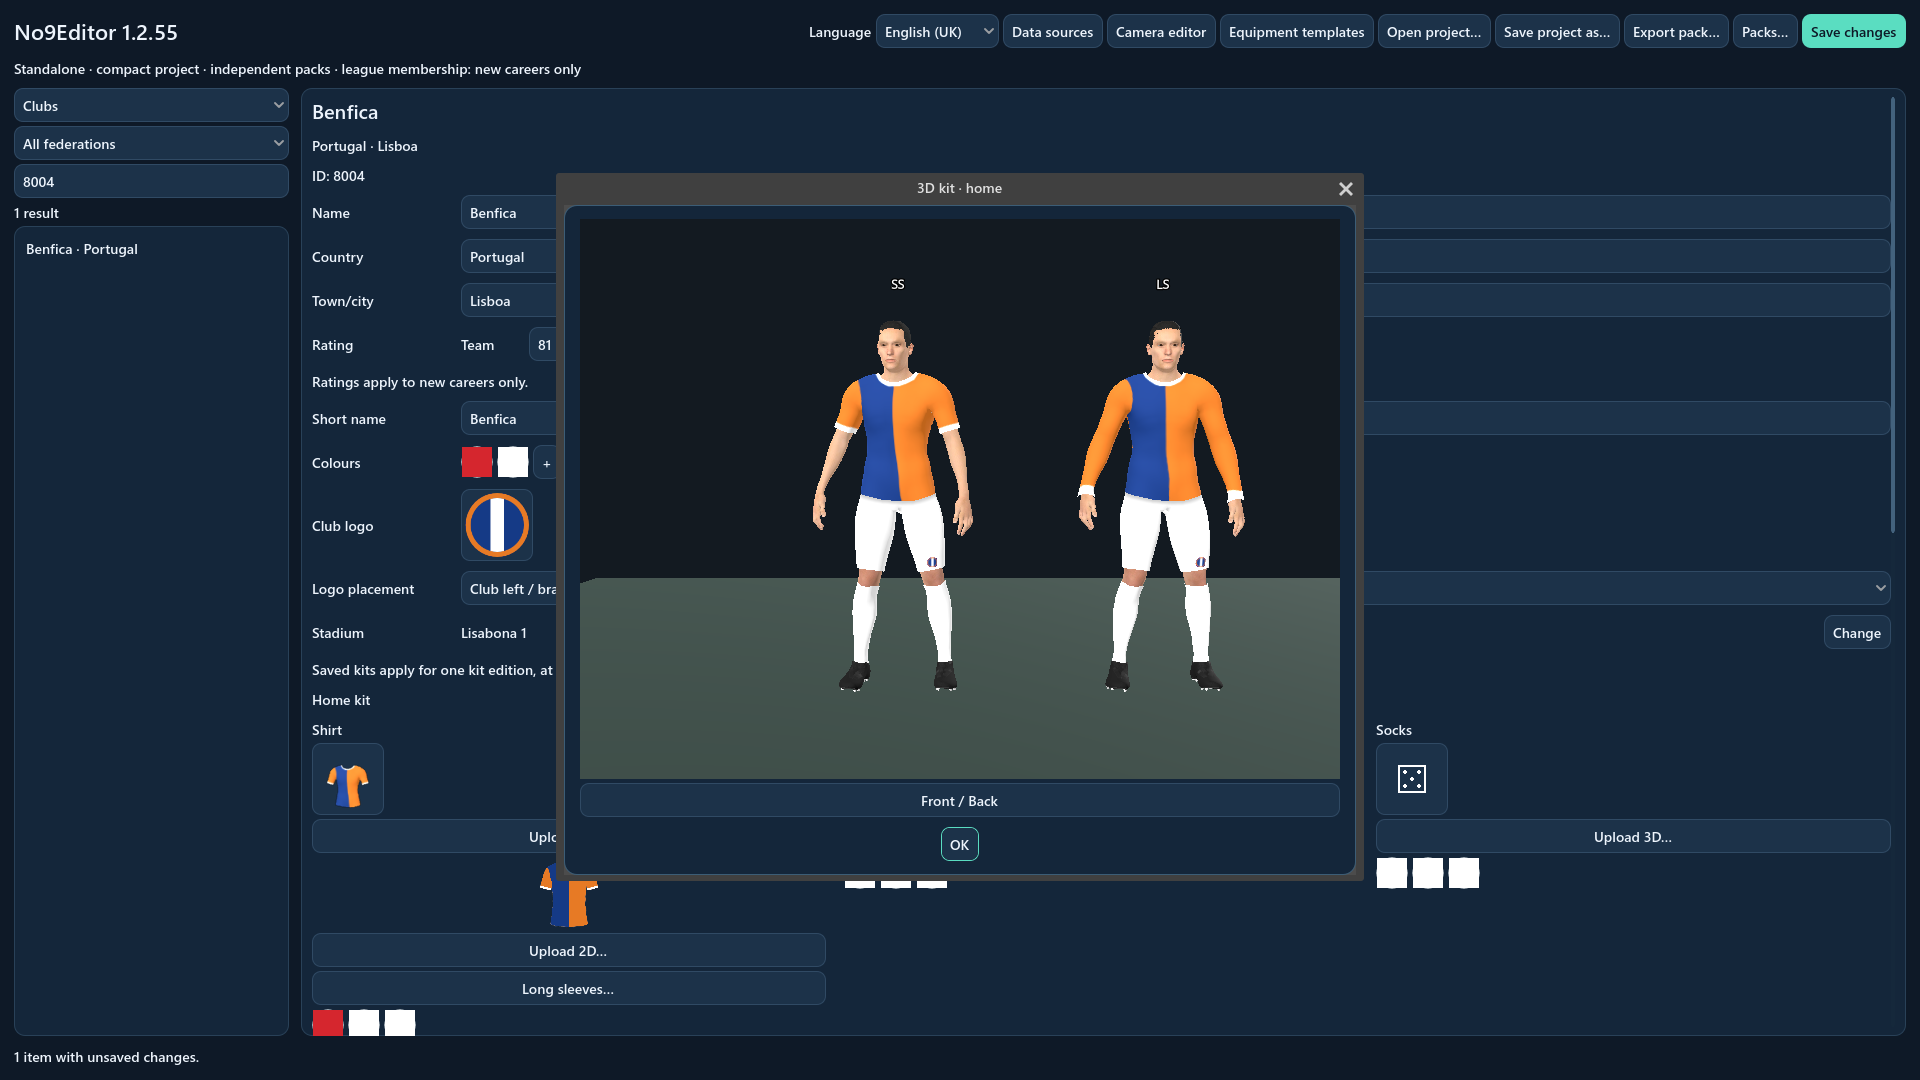
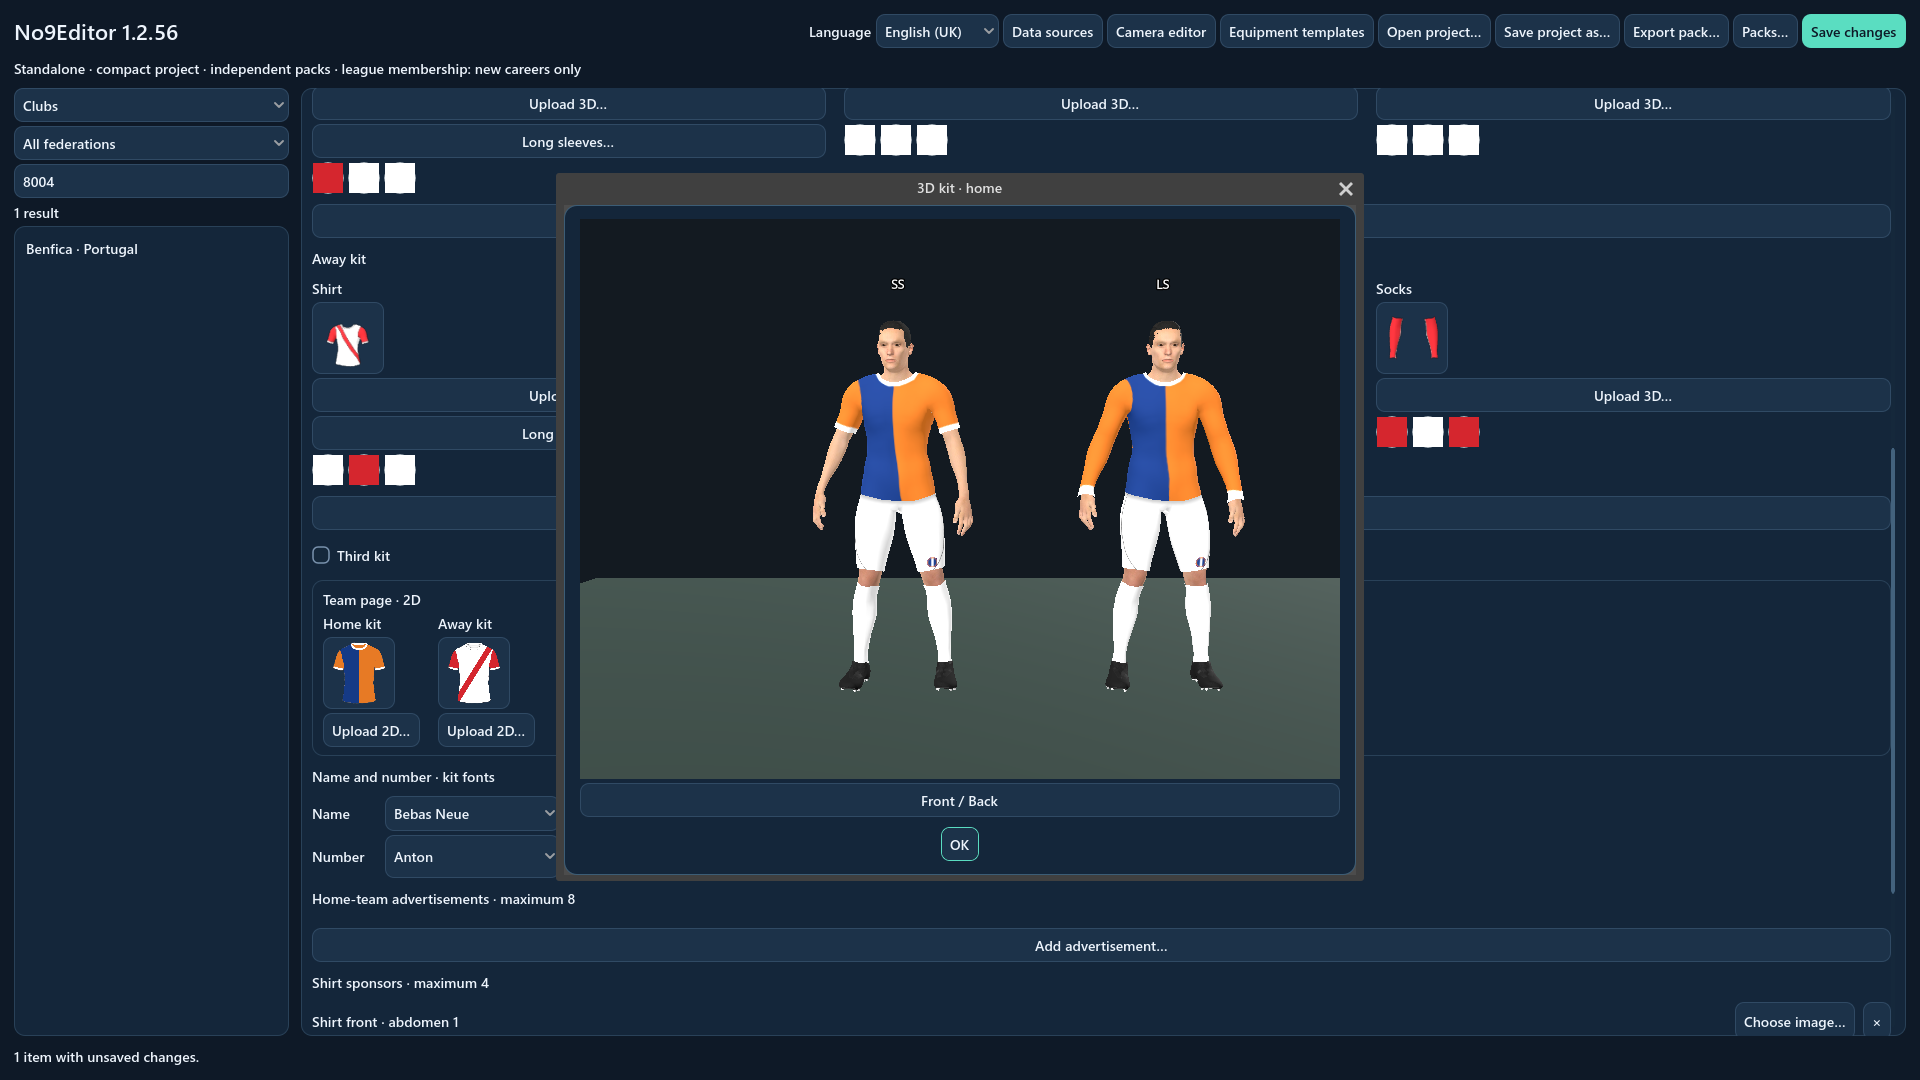
Present standalone editor 1.2.56 Assets layout and kit panels

diff --git a/docs/EDITOR.md b/docs/EDITOR.md
@@ -8,7 +8,7 @@
 
 **Clubs · Federations · Kits · Stadiums · Shared data packs**
 
-[Download 1.2.55 for Windows 64-bit](https://github.com/florinhangu/Footballer/releases/download/no9editor-v1.2.55/No9Editor.exe) · [Download details](RELEASES.md) · [No9: Day One](../README.md)
+[Download 1.2.56 for Windows 64-bit](https://github.com/florinhangu/Footballer/releases/download/no9editor-v1.2.56/No9Editor.exe) · [Download details](RELEASES.md) · [No9: Day One](../README.md)
 
 <img src="../media/editor/club-editor.png" width="92%" alt="The Marseille club form with its white, blue and gold palette in No9Editor">
 
@@ -58,7 +58,7 @@ limited. Public authors can edit names without publisher licensing controls.
   <img src="../media/editor/crest-gallery.png" width="44%" alt="The original crest gallery shown in the selected club's colours">
   <img src="../media/editor/federation-editor.png" width="44%" alt="A national football federation with its country-flag colours in the standalone editor">
   <br>
-  <img src="../media/editor/competition-editor.png" width="44%" alt="African Football Union Champions Trophy and international competition regulations">
+  <img src="../media/editor/competition-editor.png" width="44%" alt="Global Football Association World Trophy with its SVG emblem and logo upload">
   <img src="../media/editor/league-editor.png" width="44%" alt="Numbered league tiers in the standalone league editor">
 </div>
 
@@ -90,53 +90,70 @@ crest and manufacturer on opposite sides of the chest or stack them centrally.
   <img src="../media/editor/kit-preview.png" width="92%" alt="Short- and long-sleeved 3D kit previews in Grenoble's blue and white">
 </div>
 
-## Explore equipment templates
+## Design galleries and previews
 
-Open **Equipment templates** to browse separate 3D galleries for shirts, shorts,
-socks, balls and boots. Playable designs appear as unnamed thumbnails; UV
-reference sheets are excluded. Drag the preview to rotate the equipment on all
-three axes while the camera stays fixed.
+Every selected 3D shirt, pair of shorts and pair of socks appears inside its
+**72 × 72 selection button**. Upload 3D stays beside the garment controls.
+Default kits use varied models selected from the game's catalogue.
 
-Each shirt also shows its matching **Team page · 2D** image in the same colours.
-The Team image follows the selected 3D design automatically. Shirt, shorts and
-sock choices remain independent of one another and use the game's normal kit
-edition rules.
+A separate **Team page · 2D** panel sits below the home, away and optional third
+3D kits. Its short-sleeved shirts appear side by side in **72 × 72** tiles, each
+with an Upload 2D button. The 2D design follows the selected 3D shirt automatically;
+short- and long-sleeved 3D shirts share one 2D shirt identity.
 
-The boot catalogue lets you inspect both boots with traditional cosmetic
-palettes, including white/light grey/dark grey and red/charcoal/charcoal.
-Browsing is visual only and does not assign boots to a team or player.
+**Equipment templates** shows artwork created by the user and designs included
+in imported packs. The standard boot catalogue also remains available. Club and
+competition forms can still choose their appropriate built-in game designs.
+UV references and PSD authoring files are excluded from playable galleries.
 
+Rotate the ball on all three axes. Shirts, shorts, socks and boots turn left or
+right through 360 degrees, with the camera fixed. Boot previews use the same mesh,
+skin and idle pose as the match, with increased rendering resolution and a fitted
+view that keeps both boots in frame.
+
+<div align="center">
+  <img src="../media/editor/boot-catalogue.png" width="96%" alt="The standalone boot catalogue with the original match mesh, a fitted preview and horizontal rotation">
+</div>
 
 ## Bring your own artwork
 
-The application creates a **Templates** folder beside its executable. It includes
-UV guides for short- and long-sleeved shirts, shorts, socks, boots and the NOVE
-ball, plus **60 flat shirt templates**. The shirt overlay is supplied separately.
-Use these references in your image editor; no Godot installation is needed.
+The application uses **Assets** beside its executable, with no separate Custom
+folder. It includes six UV guides, a short-sleeved 2D shirt PSD and a separate
+overlay. No Godot installation is needed.
 
-Upload a finished **3D PNG** for a club or federation and, optionally, a matching
-**2D PNG** for the Team page. Short and long sleeves have separate uploads and
-UV guides. A missing sleeve variant uses plain primary-colour fabric. Without
-separate 2D artwork, the Team page renders the selected custom 3D shirt.
+| Artwork | Folder inside Assets |
+| --- | --- |
+| Team-page shirt | Kits/2D_Kits/Shirt |
+| Short-sleeved shirt | Kits/3D_Kits/SS_Shirt |
+| Long-sleeved shirt | Kits/3D_Kits/LS_Shirt |
+| Shorts | Kits/3D_Kits/Shorts |
+| Socks | Kits/3D_Kits/Socks |
+| NOVE ball | Ball/3D |
+| Boots | Boots/3D |
 
-Custom PNGs keep their original colours and any logos, sponsors or manufacturer
-marks already drawn into them. Automatic shirt branding is suppressed; player
-names and numbers still follow your printing choices. The authored kit lasts
-for **one normal kit edition**, beginning with a new career or the next scheduled
-kit replacement. Subsequent editions return to the game's randomisation.
+Team uploads are saved by numeric identity: **8004_home.png**, **8004_away.png**
+and **8004_third.png**, in the corresponding category folder. League and competition
+ball uploads use their numeric ID. Renaming a team does not rename its artwork.
 
-Upload permanent custom logos for clubs, federations, leagues and competitions.
-These remain until explicitly removed and are independent of seasonal kits.
-PNG, JPEG, WebP and SVG logos are supported.
+Custom PNGs keep their colours and any logos, sponsors or manufacturer marks
+already drawn into them. Automatic shirt branding is suppressed; player names
+and numbers still follow the printing choices. Authored kits last for one normal
+kit edition, starting with a new career or the next scheduled replacement.
 
-Save a **.no9project** or export a **.no9pack** to embed your custom artwork.
-Include unassigned custom templates when sharing a template collection. Recipients
-need only your project or pack, rather than your original image files.
+Clubs, federations, leagues and competitions each have a visible **Upload logo…**
+button. League and competition forms display their existing SVG emblem by default.
+Custom PNG, JPEG, WebP or SVG logos remain until explicitly removed.
+
+Save a **.no9project** or export a **.no9pack** to embed your artwork. Include
+unassigned custom templates when sharing a collection. Recipients need only the
+project or pack, rather than the author's original image files.
 
 <div align="center">
-  <img src="../media/editor/custom-kit-upload.png" width="96%" alt="Custom shirt uploads, matching Team-page artwork and a permanent custom club crest in No9Editor">
+  <img src="../media/editor/custom-kit-upload.png" width="96%" alt="72-pixel shirt, shorts and sock selection buttons with separate 3D upload controls">
   <br>
-  <img src="../media/editor/custom-kit-preview.png" width="96%" alt="Separate short- and long-sleeved custom shirts, each using its own UV artwork in the standalone editor">
+  <img src="../media/editor/team-2d-panel.png" width="96%" alt="A separate panel containing the home and away short-sleeved 2D shirts and upload buttons">
+  <br>
+  <img src="../media/editor/custom-kit-preview.png" width="96%" alt="Short- and long-sleeved 3D shirts sharing the same kit identity">
 </div>
 
 ## Choose the match ball
@@ -201,12 +218,12 @@ ratings apply to new careers only. An authored kit is used for one normal kit
 edition, following the team's usual annual or two-season cycle, before the
 game's normal kit generation resumes.
 
-Custom artwork screenshots show **No9Editor 1.2.55**. Other screenshots illustrate the existing editor tools.
+Custom artwork screenshots show **No9Editor 1.2.56**. Other screenshots illustrate the existing editor tools.
 
 ## Download No9Editor
 
 **Windows 64-bit · Single executable · Approximately 570 MiB**
 
-[Download No9Editor.exe](https://github.com/florinhangu/Footballer/releases/download/no9editor-v1.2.55/No9Editor.exe)
+[Download No9Editor.exe](https://github.com/florinhangu/Footballer/releases/download/no9editor-v1.2.56/No9Editor.exe)
 and open it to start a project. The application includes its runtime, database
 and assets. See [download details](RELEASES.md) for the current version and checksum.

diff --git a/docs/releases/1.2.56.md b/docs/releases/1.2.56.md
@@ -1,0 +1,37 @@
+# No9Editor 1.2.56
+
+Published: 2026-11-08 (Europe/Bucharest). Windows x86-64 standalone editor.
+
+## Added
+
+- An Assets layout matching the reorganised authoring folders: 2D shirts, separate SS/LS shirts, shorts, socks, NOVE balls and boots.
+- A shared 2D kit panel below the home, away and optional third 3D kits, with one 72 × 72 short-sleeved shirt and an Upload 2D button for each strip.
+- Visible Upload logo buttons for clubs, federations, leagues and competitions. The existing league and competition SVG emblems are displayed by default.
+- Numeric team filenames for uploaded kit artwork, such as 8004_home.png and 8004_away.png, in the corresponding category folder. Competition balls use the competition ID.
+
+## Changed
+
+- Every 3D garment displays its selected design inside its 72 × 72 selection button. The 3D upload controls remain separate.
+- Short- and long-sleeved 3D shirts share a single short-sleeved 2D kit identity, chosen automatically from the 3D selection.
+- Default club and federation kits use varied game models rather than a shared model-one placeholder.
+- The Equipment templates library shows user-created and imported artwork; the standard boots remain available there. Team and competition forms retain their built-in design selectors.
+- Balls retain rotation on all three axes. Other equipment rotates horizontally through 360 degrees.
+- Boot previews use the match mesh, skin and idle pose. Their camera is fitted to both posed boots, with increased rendering resolution and an unchanged aspect ratio.
+- Existing project artwork is exposed in the new folders without overwriting files edited manually in Assets. Immutable references and portable pack compatibility are retained.
+
+## Removed
+
+- The separate Custom directory from the authoring layout.
+- The separate 2D preview beneath each shirt's 3D upload control.
+- Standard shirts, shorts, socks and balls from the user template library; they remain available in the appropriate team and competition selectors.
+- Unrestricted pitch/roll rotation for clothing and boots in the equipment library.
+
+## Verification
+
+1,159 focused checks passed with no functional failures. The standalone executable passed 113 checks at 1920 × 1080 with audio disabled. The checks cover the actual upload controls, numeric filenames, two/three-kit panels, 72-pixel selectors, default SVG emblems, portable artwork, the boot thumbnail and horizontal rotation. Source regressions also cover all 120 supplied SS/LS texture variants, seasonal kit rules and preservation of existing authoring files.
+
+## Download
+
+Open No9Editor.exe directly. Godot and the game are not required. The executable creates Assets and extracts missing references without replacing existing files. Assets.zip is also available separately; extract its contents into the Assets folder beside No9Editor.exe.
+
+This release contains only the standalone editor. No game build or game project is distributed.

diff --git a/docs/RELEASES.md b/docs/RELEASES.md
@@ -4,11 +4,11 @@
 
 **Standalone football database, kit and stadium editor for Windows 64-bit.**
 
-Current version: **1.2.55**.
+Current version: **1.2.56**.
 
 [Release history, newest first](releases/README.md) — additions, changes and removals for every published version.
 
-[Download No9Editor.exe](https://github.com/florinhangu/Footballer/releases/download/no9editor-v1.2.55/No9Editor.exe) · [View the editor](EDITOR.md) · [Open the download page](https://github.com/florinhangu/Footballer/releases/tag/no9editor-v1.2.55)
+[Download No9Editor.exe](https://github.com/florinhangu/Footballer/releases/download/no9editor-v1.2.56/No9Editor.exe) · [View the editor](EDITOR.md) · [Open the download page](https://github.com/florinhangu/Footballer/releases/tag/no9editor-v1.2.56)
 
 Download the single executable and open it. It includes the runtime, database
 and assets; installing Godot is unnecessary. British English and Romanian are
@@ -16,15 +16,15 @@ available in the language selector.
 
 | File | Size |
 | --- | ---: |
-| `No9Editor.exe` | 597916120 bytes, approximately 570 MiB |
+| `No9Editor.exe` | 597878328 bytes, approximately 570 MiB |
 
 SHA-256:
 
 ```text
[2 lines of base64/hex data omitted]
 ```
 
-[Download SHA256SUMS.txt](https://github.com/florinhangu/Footballer/releases/download/no9editor-v1.2.55/SHA256SUMS.txt).
+[Download SHA256SUMS.txt](https://github.com/florinhangu/Footballer/releases/download/no9editor-v1.2.56/SHA256SUMS.txt).
 
 ## No9: Day One
 

diff --git a/docs/releases/README.md b/docs/releases/README.md
@@ -1,9 +1,10 @@
 # Release history
 
-Published releases, newest first. Publication dates below are the actual GitHub dates; dates are not rewritten to change ordering.
+Published releases, newest first. Publication dates use Europe/Bucharest. Ordering follows the actual GitHub publication times.
 
 | Version | Published | Changes | Download |
 | --- | --- | --- | --- |
+| 1.2.56 | 2026-11-08 | [Added, changed and removed](1.2.56.md) | [GitHub release](https://github.com/florinhangu/Footballer/releases/tag/no9editor-v1.2.56) |
 | 1.2.55 | 2026-11-07 | [Added, changed and removed](1.2.55.md) | [GitHub release](https://github.com/florinhangu/Footballer/releases/tag/no9editor-v1.2.55) |
 | 1.2.43 | 2026-11-05 | [Added, changed and removed](1.2.43.md) | [GitHub release](https://github.com/florinhangu/Footballer/releases/tag/no9editor-v1.2.43) |
 | 1.2.38 | 2026-11-05 | [Added, changed and removed](1.2.38.md) | [GitHub release](https://github.com/florinhangu/Footballer/releases/tag/no9editor-v1.2.38) |
@@ -22,4 +23,4 @@ The five unpublished drafts were archived locally with verified attachments and 
 | 1.2.32 | [Unpublished build notes](1.2.32.md) |
 | 1.2.27 | [Unpublished build notes](1.2.27.md) |
 
-The public latest-release link targets 1.2.55.
+The public latest-release link targets 1.2.56.

diff --git a/README.md b/README.md
@@ -154,7 +154,7 @@ with plains/coast or hills/mountains where the geography can be classified.
 
 **Windows 64-bit · British English and Romanian · Portable projects and data packs**
 
-[Explore No9Editor](docs/EDITOR.md) · [Download No9Editor 1.2.55](https://github.com/florinhangu/Footballer/releases/download/no9editor-v1.2.55/No9Editor.exe)
+[Explore No9Editor](docs/EDITOR.md) · [Download No9Editor 1.2.56](https://github.com/florinhangu/Footballer/releases/download/no9editor-v1.2.56/No9Editor.exe)
 
   <img src="media/editor/kit-models.png" width="49%" alt="Visual shirt model selection using the team's kit colours in No9Editor">
   <img src="media/editor/kit-preview.png" width="49%" alt="The 3D kit preview in Grenoble's club colours">
@@ -168,7 +168,7 @@ own included database; installing Godot is unnecessary.
 ## Get No9
 
 **No9Editor for Windows is available to download.**
-[Download No9Editor 1.2.55](https://github.com/florinhangu/Footballer/releases/download/no9editor-v1.2.55/No9Editor.exe)
+[Download No9Editor 1.2.56](https://github.com/florinhangu/Footballer/releases/download/no9editor-v1.2.56/No9Editor.exe)
 or see [download details](docs/RELEASES.md).
 
 A public game build is not available from this repository. The images above show
